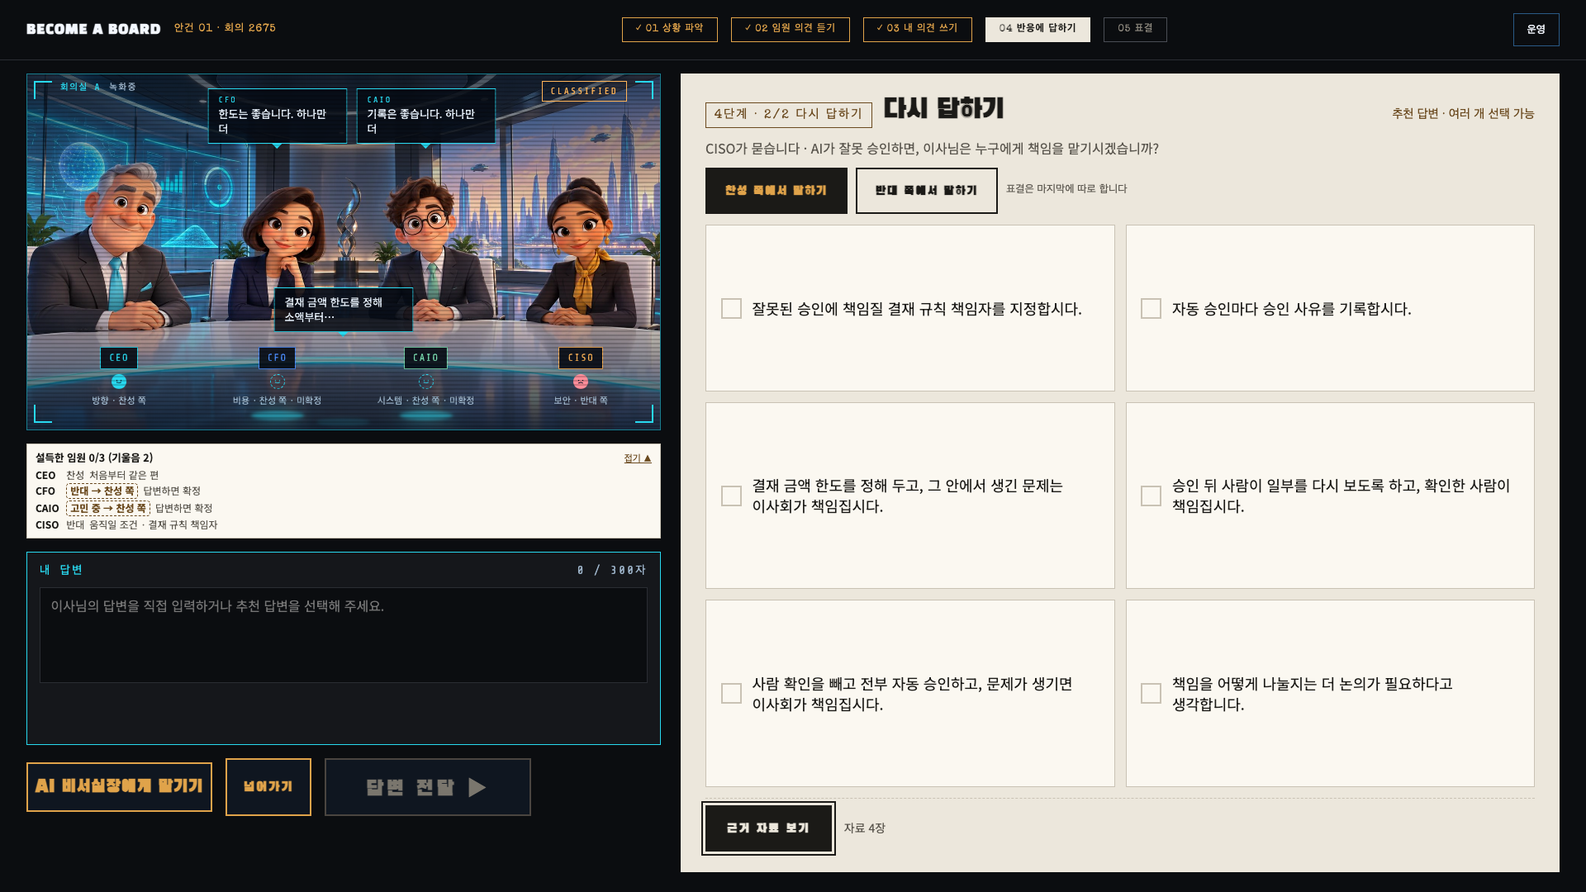
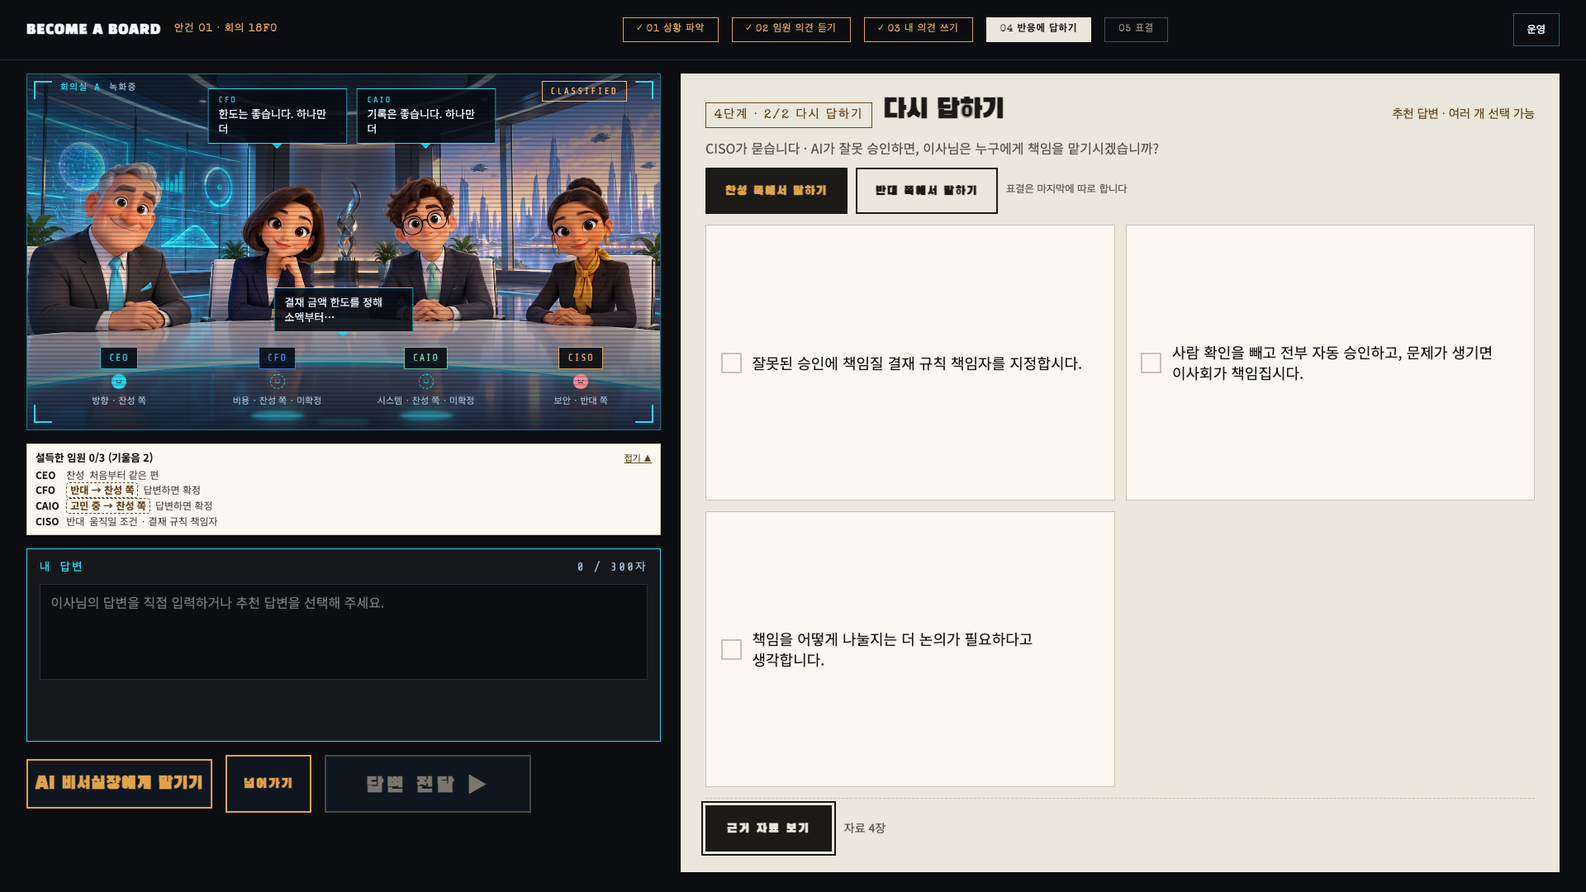
T120: 답변 뒤 마지막 반응 전부 가림 + 반응 답하기 추천 답변 중복 제외
- 회의록: MOTION·VOTE에서 FOLLOWUP 발언 본문을 방향 단어 유무와 무관하게 '(답변을 들었습니다 · 결과에서 공개)'로 가림, RESULT 순차 공개 뒤 원문
- 반응에 답하기: 첫 의견에서 고른 문구와 텍스트가 같거나(같은 입장이면) 같은 조건을 제안하는 추천 답변 숨김, 비서실장 안내는 첫 의견 문구를 가리킴
- 단위·커버리지 불변식·문서(DESIGN_SPEC T120, FACILITATOR_GUIDE, TASKS)·스크린샷 갱신

diff --git a/src/components/screens/ReactionsScreen.tsx b/src/components/screens/ReactionsScreen.tsx
@@ -71,6 +71,7 @@
 // 앞에서 pendingOptionIndex !== null이면 바로 멈추고, PhraseCard에도 disabled를
 // 넘겨 시각적으로도 잠근다.
 
+import { duplicateFollowUpOptionIndexes } from '../followUpDuplicates';
 import { useCallback, useEffect, useMemo, useRef, useState } from 'react';
 import type { ExecMemberId, Scenario } from '../../content/types';
 import type { Opinion, RoleStatus, Stance, Statement } from '../../domain/types';
@@ -504,6 +505,25 @@ export function ReactionsScreen({
       : '이미 쓴 내용의 조건입니다';
   }
 
+  // T120: 첫 의견에서 이미 낸 문구(와 같은 조건)를 제안하는 추천 답변은 보이지 않는다.
+  const duplicateOptionIndexes = useMemo(
+    () => duplicateFollowUpOptionIndexes(scenario, lastOpinion, side),
+    [scenario, lastOpinion, side],
+  );
+  // T120: 그 조건을 제안하는 보이는 추천 답변이 없고 전부 첫 의견과 겹쳐 숨겨진 경우 — 안내는
+  // 숨긴 카드가 아니라 첫 의견에서 이미 고른 문구를 가리킨다.
+  function isHiddenOnlyCondition(conditionId: string): boolean {
+    const offering = scenario.followUp.options
+      .map((option, index) => ({ option, index }))
+      .filter(
+        ({ option }) =>
+          option.proposeConditionId === conditionId &&
+          !option.keepPrevious &&
+          ((option.side ?? 'FOR') === 'BOTH' || (option.side ?? 'FOR') === guideSide),
+      );
+    return offering.length > 0 && offering.every(({ index }) => duplicateOptionIndexes.has(index));
+  }
+
   function isReleasedCondition(conditionId: string): boolean {
     return proposedConditionIds.includes(conditionId) && !acceptedConditionIds.includes(conditionId);
   }
@@ -512,12 +532,14 @@ export function ReactionsScreen({
       hint: (id: string) =>
         isReleasedCondition(id)
           ? releasedHint(releasedSourceText(id))
-          : conditionSourceHint(scenario, id, guideSide, 'REACTIONS'),
+          : isHiddenOnlyCondition(id)
+            ? releasedSourceText(id)
+            : conditionSourceHint(scenario, id, guideSide, 'REACTIONS'),
       offered: (id: string) => isConditionOffered(scenario, id, guideSide),
       later: (id: string) => !isReleasedCondition(id) && isLaterStageOnly(scenario, id, guideSide, 'REACTIONS'),
     }),
     // eslint-disable-next-line react-hooks/exhaustive-deps
-    [scenario, guideSide, proposedConditionIds, acceptedConditionIds, selectedOptionIds, lastOpinion],
+    [scenario, guideSide, proposedConditionIds, acceptedConditionIds, selectedOptionIds, lastOpinion, duplicateOptionIndexes],
   );
 
   function canApplyRecommendation(conditionId: string): boolean {
@@ -677,9 +699,9 @@ export function ReactionsScreen({
     hasAnswer: textValue.trim() !== '',
     canSubmit,
   });
-  const firstOptionIndex = scenario.followUp.options.findIndex((option) => {
+  const firstOptionIndex = scenario.followUp.options.findIndex((option, index) => {
     const optionSide = option.side ?? 'FOR';
-    return !option.keepPrevious && (optionSide === 'BOTH' || optionSide === side);
+    return !option.keepPrevious && !duplicateOptionIndexes.has(index) && (optionSide === 'BOTH' || optionSide === side);
   });
 
   if (step === 'listen') {
@@ -1003,10 +1025,11 @@ export function ReactionsScreen({
                 if (optionSide !== 'BOTH' && optionSide !== side) {
                   return null;
                 }
-                // 이미 확정된 조건을 다시 제안하는 카드도 그대로 보여 준다(T89 리드 확인 —
-                // 숨기면 찬성 쪽 카드가 1~2장만 남아 빈 그리드가 된다; 다시 골라도 조건 칩은
-                // "기존 확정"으로 표시될 뿐 새 조건이 생기지 않아 무해하다). T84 #23의
-                // "(앞서 제안함)" 잠금 표시는 쓰지 않는다.
+                // T120: 첫 의견에서 이미 낸 문구·조건과 겹치는 카드는 숨긴다(T89의 "겹쳐도
+                // 보여 준다"를 대체 — 사용자 지시 "이미 의견을 낸 문구는 더 이상 보여 주지 않아도 돼").
+                if (duplicateOptionIndexes.has(index)) {
+                  return null;
+                }
                 return (
                   <PhraseCard
                     key={index}
@@ -1020,6 +1043,11 @@ export function ReactionsScreen({
                 );
               })}
               </div>
+              {firstOptionIndex === -1 && (
+                <p className="side-select__guide" data-testid="reactions-options-empty">
+                  첫 의견에서 추천 문구를 이미 모두 냈습니다. 새로 덧붙일 말은 직접 써 주세요.
+                </p>
+              )}
             </>
           )}
           <div className="discuss-screen__evidence-row">

diff --git a/tests/content/conditionCoverage.test.ts b/tests/content/conditionCoverage.test.ts
@@ -10,6 +10,7 @@ import { aiApprovalScenario } from '../../src/content/scenarios/aiApproval';
 import { experienceFirstScenario } from '../../src/content/scenarios/experienceFirst';
 import type { ExecMemberId, Predicate, Scenario } from '../../src/content/types';
 import { proposeFromText } from '../../src/domain/conditions';
+import { duplicateFollowUpOptionIndexes } from '../../src/components/followUpDuplicates';
 
 type Stance = 'FOR' | 'AGAINST';
 
@@ -89,6 +90,51 @@ describe.each(scenarios)('T119 조건 커버리지 — %s', (_name, scenario) =>
     it('(b2) 첫 단계에서 빠지는 조건에는 후속 질문이 묻는 조건이 들어 있다', () => {
       const asked = ASKED_CONDITION[scenario.id]?.[stance];
       if (asked) expect(missingFirst).toContain(asked);
+    });
+  });
+
+  // T120: 첫 의견에서 고른 문구 집합 S에 대해, 2/2에 보이는 카드 ∪ S의 조건 = 규칙표 조건 전부.
+  // 숨긴 카드의 조건은 반드시 S가 이미 제안한 조건이다(같은 입장일 때; 입장 전환 시에는 텍스트가 같은 카드만 숨긴다).
+  describe.each<Stance>(['FOR', 'AGAINST'])('(e) T120 중복 제외 후에도 조건이 모두 도달한다 — 입장 %s', (stance) => {
+    const sidePhrases = scenario.phrases.filter((p) => {
+      const side = p.side ?? 'FOR';
+      return side === 'BOTH' || side === stance;
+    });
+    const selections: string[][] = [
+      [],
+      ...sidePhrases.map((p) => [p.id]),
+      sidePhrases.map((p) => p.id),
+    ];
+    for (const selected of selections) {
+      it(`첫 의견 문구 [${selected.join(',') || '없음'}]`, () => {
+        const hidden = duplicateFollowUpOptionIndexes(scenario, { selectedPhraseIds: selected, stance }, stance);
+        const fromSelected = new Set(
+          scenario.phrases.filter((p) => selected.includes(p.id) && p.conditionId).map((p) => p.conditionId as string),
+        );
+        const visible = new Set<string>();
+        scenario.followUp.options.forEach((option, index) => {
+          const side = option.side ?? 'FOR';
+          if (option.keepPrevious || hidden.has(index) || !option.proposeConditionId) return;
+          if (side === 'BOTH' || side === stance) visible.add(option.proposeConditionId);
+        });
+        const unreachable = required.filter((id) => !visible.has(id) && !fromSelected.has(id));
+        expect(unreachable).toEqual([]);
+        // 숨긴 카드의 조건은 S가 이미 제안한 조건이거나, 텍스트가 같은 카드다.
+        for (const index of hidden) {
+          const option = scenario.followUp.options[index]!;
+          const sameText = scenario.phrases.some((p) => selected.includes(p.id) && p.text.trim() === option.text.trim());
+          expect(sameText || (option.proposeConditionId !== null && fromSelected.has(option.proposeConditionId))).toBe(true);
+        }
+      });
+    }
+    it('입장을 바꾸면 조건이 같다는 이유로는 숨기지 않는다', () => {
+      const other: Stance = stance === 'FOR' ? 'AGAINST' : 'FOR';
+      const selected = sidePhrases.map((p) => p.id);
+      const hidden = duplicateFollowUpOptionIndexes(scenario, { selectedPhraseIds: selected, stance }, other);
+      const texts = new Set(scenario.phrases.filter((p) => selected.includes(p.id)).map((p) => p.text.trim()));
+      for (const index of hidden) {
+        expect(texts.has(scenario.followUp.options[index]!.text.trim())).toBe(true);
+      }
     });
   });
 

diff --git a/tests/components/ReactionsScreen.test.tsx b/tests/components/ReactionsScreen.test.tsx
@@ -993,5 +993,71 @@ describe('ReactionsScreen 기울어진 방향(T118)', () => {
     expect(calls[calls.length - 1]?.leaning).toEqual({});
     expect(calls[calls.length - 1]?.stances.CAIO).toBe('AGAINST');
   });
+
+  describe('추천 답변 중복 제외(T120)', () => {
+    const ai = aiApprovalScenario;
+    const aiStances: Record<ExecMemberId, Stance> = { CEO: 'FOR', CFO: 'UNDECIDED', CAIO: 'UNDECIDED', CISO: 'UNDECIDED' };
+    function renderAi(side: 'FOR' | 'AGAINST', stance: 'FOR' | 'AGAINST', selectedPhraseIds: string[]) {
+      const opinions: Opinion[] = [
+        { id: 'o1', originalText: '첫 의견', selectedPhraseIds, confirmedConditionIds: [], stance, createdAt: 0 },
+      ];
+      render(
+        <ReactionsScreen
+          {...baseProps()}
+          scenario={ai}
+          opinions={opinions}
+          side={side}
+          mode="scripted"
+          roleStatus={idleRoleStatus}
+          statements={[]}
+          roundLog={[]}
+          stances={aiStances}
+        />,
+      );
+    }
+    function visibleOptionTexts(): string[] {
+      return ai.followUp.options
+        .map((option, index) => ({ option, index }))
+        .filter(({ index }) => screen.queryByTestId(`followup-option-${index}`) !== null)
+        .map(({ option }) => option.text);
+    }
+
+    it('첫 의견에서 고른 문구와 같은 조건을 제안하는 추천 답변은 보이지 않는다', () => {
+      const withoutPick = (() => {
+        renderAi('FOR', 'FOR', []);
+        const texts = visibleOptionTexts();
+        cleanup();
+        return texts;
+      })();
+      renderAi('FOR', 'FOR', ['P1']); // LIMIT
+      const texts = visibleOptionTexts();
+      const limitOptions = ai.followUp.options.filter((o) => o.proposeConditionId === 'LIMIT' && (o.side ?? 'FOR') === 'FOR');
+      expect(limitOptions.length).toBeGreaterThan(0);
+      for (const option of limitOptions) {
+        expect(withoutPick).toContain(option.text);
+        expect(texts).not.toContain(option.text);
+      }
+      expect(texts.length).toBe(withoutPick.length - limitOptions.length);
+    });
+
+    it('입장을 바꾸면 조건이 같다는 이유로는 숨기지 않는다', () => {
+      renderAi('AGAINST', 'FOR', ['P1']);
+      const againstLimit = ai.followUp.options.filter(
+        (o) => o.proposeConditionId === 'LIMIT' && (o.side ?? 'FOR') === 'AGAINST',
+      );
+      expect(againstLimit.length).toBeGreaterThan(0);
+      for (const option of againstLimit) {
+        expect(visibleOptionTexts()).toContain(option.text);
+      }
+    });
+
+    it('고른 문구가 없으면 아무것도 숨기지 않는다', () => {
+      renderAi('FOR', 'FOR', []);
+      const forOptions = ai.followUp.options.filter(
+        (o) => !o.keepPrevious && ((o.side ?? 'FOR') === 'FOR' || o.side === 'BOTH'),
+      );
+      expect(visibleOptionTexts().length).toBe(forOptions.length);
+    });
+  });
 });
 

diff --git a/tests/components/resultReveal.test.tsx b/tests/components/resultReveal.test.tsx
@@ -215,11 +215,15 @@ describe('FOLLOWUP 발언 회의록(T114)', () => {
     }));
     const entries = buildMinutes(session, scenario, roundLog);
     render(<MinutesPanel entries={entries} />);
+    // T120: MOTION에서는 방향 단어가 없어도 본문 전체를 가린다.
     for (const roleId of ['CEO', 'CFO', 'CAIO', 'CISO']) {
       const row = screen.getByTestId(`minutes-entry-followup-${roleId}`);
-      expect(row).toHaveTextContent('답변을 잘 들었습니다');
-      expect(row.textContent).not.toMatch(/찬성 쪽|반대 쪽|고민 중|FOR|AGAINST/);
+      expect(row).toHaveTextContent(SEALED_FOLLOWUP_TEXT);
+      expect(row.textContent).not.toMatch(/답변을 잘 들었습니다|근거가 분명|FOR|AGAINST/);
     }
+    // RESULT 이후에는 원문이고 입장 라벨은 붙지 않는다.
+    render(<MinutesPanel entries={buildMinutes({ ...session, stage: 'RESULT' }, scenario, roundLog)} />);
+    expect(screen.getAllByTestId('minutes-entry-followup-CEO').at(-1)).toHaveTextContent('답변을 잘 들었습니다');
   });
 
   function liveFollowUpSession(texts: Record<string, string>): { session: Session; roundLog: RoundLogEntry[] } {
@@ -253,14 +257,15 @@ describe('FOLLOWUP 발언 회의록(T114)', () => {
     };
   }
 
-  it('모델이 규칙을 어겨 방향 단어를 쓰면 MOTION·VOTE 회의록은 그 행만 가린다', () => {
+  it('MOTION·VOTE 회의록은 방향 단어 유무와 무관하게 임원 4명 FOLLOWUP 행을 모두 가린다(T120)', () => {
     const { session, roundLog } = liveFollowUpSession({ CFO: '이번에는 찬성합니다.', CISO: '반대로 남겠습니다.' });
     for (const stage of ['MOTION', 'VOTE'] as const) {
       const entries = buildMinutes({ ...session, stage }, scenario, roundLog);
       const byId = (id: string) => entries.find((entry) => entry.id === id)?.text;
       expect(byId('followup-CFO')).toBe(SEALED_FOLLOWUP_TEXT);
       expect(byId('followup-CISO')).toBe(SEALED_FOLLOWUP_TEXT);
-      expect(byId('followup-CEO')).toBe('답변을 잘 들었습니다.');
+      expect(byId('followup-CEO')).toBe(SEALED_FOLLOWUP_TEXT);
+      expect(byId('followup-CAIO')).toBe(SEALED_FOLLOWUP_TEXT);
     }
   });
 

diff --git a/src/components/followUpDuplicates.ts b/src/components/followUpDuplicates.ts
@@ -1,0 +1,44 @@
+// T120: 반응에 답하기(REACTIONS 2/2)의 추천 답변에서 첫 의견에 이미 낸 내용과 겹치는 카드를
+// 가린다. 규칙은 화면이 아니라 여기에 둔다.
+//  - 첫 의견에서 고른 추천 문구와 텍스트가 같은 카드는 입장과 무관하게 숨긴다.
+//  - 첫 의견에서 고른 추천 문구가 제안한 조건과 같은 조건을 제안하는 카드는, 지금 고른 입장이
+//    첫 의견 입장과 같을 때만 숨긴다(입장을 바꾸면 다른 입장의 문구라 중복이 아니다).
+// 숨긴 카드의 조건은 첫 의견에서 이미 제안됐으므로 조건 도달 범위(T119)는 줄지 않는다.
+
+import type { Scenario } from '../content/types';
+
+export interface FirstOpinionRef {
+  selectedPhraseIds: readonly string[];
+  stance?: 'FOR' | 'AGAINST' | null;
+}
+
+/** 숨겨야 하는 followUp.options 인덱스 집합. */
+export function duplicateFollowUpOptionIndexes(
+  scenario: Scenario,
+  firstOpinion: FirstOpinionRef | null,
+  currentSide: 'FOR' | 'AGAINST' | null,
+): Set<number> {
+  const hidden = new Set<number>();
+  if (!firstOpinion || firstOpinion.selectedPhraseIds.length === 0) {
+    return hidden;
+  }
+  const picked = scenario.phrases.filter((phrase) => firstOpinion.selectedPhraseIds.includes(phrase.id));
+  const pickedTexts = new Set(picked.map((phrase) => phrase.text.trim()));
+  const pickedConditionIds = new Set(
+    picked.map((phrase) => phrase.conditionId).filter((id): id is string => id !== null),
+  );
+  const sameSide = currentSide !== null && (firstOpinion.stance ?? 'FOR') === currentSide;
+  scenario.followUp.options.forEach((option, index) => {
+    if (option.keepPrevious) {
+      return;
+    }
+    if (pickedTexts.has(option.text.trim())) {
+      hidden.add(index);
+      return;
+    }
+    if (sameSide && option.proposeConditionId !== null && pickedConditionIds.has(option.proposeConditionId)) {
+      hidden.add(index);
+    }
+  });
+  return hidden;
+}

diff --git a/src/components/minutes.ts b/src/components/minutes.ts
@@ -7,7 +7,7 @@
 import type { ExecMemberId, Reaction, Scenario } from '../content/types';
 import type { MemberId, RoleStatus, Session, SessionStage, StatementStage } from '../domain/types';
 import { EXEC_MEMBER_ORDER } from '../domain/voting';
-import { SEALED_FOLLOWUP_TEXT, findVerdictWords } from '../domain/verdictWords';
+import { SEALED_FOLLOWUP_TEXT } from '../domain/verdictWords';
 import { membersAwaitingAnswer } from '../domain/stance';
 import { reactionBodyText, reactionsFor, oppositionReactionText, resolveFollowUpPrompt } from './reactionsFor';
 import { chairMotionLine } from './chairMotionLine';
@@ -156,7 +156,7 @@ export function buildMinutes(
   scenario: Scenario,
   roundLog: RoundLogEntry[],
   options: {
-    /** T114: FOLLOWUP 발언에 방향 단어가 있으면 본문을 가린다. 생략하면 MOTION·VOTE에서만
+    /** T114·T120: FOLLOWUP 발언(답변 뒤 마지막 반응) 본문을 방향 단어 유무와 무관하게 전부 가린다. 생략하면 MOTION·VOTE에서만
      * 가리고 RESULT 이후에는 원문을 보여 준다(결과 화면의 순차 공개 전에는 호출부가 true). */
     sealFollowUp?: boolean;
   } = {},
@@ -286,7 +286,7 @@ export function buildMinutes(
         entries.push({
           id: `followup-${result.roleId}`,
           speaker: result.roleId,
-          text: sealFollowUp && findVerdictWords(result.text).length > 0 ? SEALED_FOLLOWUP_TEXT : result.text,
+          text: sealFollowUp && result.kind === 'speech' ? SEALED_FOLLOWUP_TEXT : result.text,
           kind: result.kind,
           timeLabel: formatElapsed(startedAt, result.createdAt),
         });

diff --git a/docs/design/DESIGN_SPEC.md b/docs/design/DESIGN_SPEC.md
@@ -1166,3 +1166,28 @@ MOTION·다시 답하기(REACTIONS 2/2)·ATTRACT·INTRO·SELECT에는 안내가 
 **화면 크기**: 최악 경우 추가 답변은 찬성 6장·반대 7장(공통 답변 포함)이다. 2열 그리드가 1280×720에서 3~4줄로 들어가 문서 스크롤·잘림이 없음을 `e2e/noscroll.spec.ts`(안건 × 입장 4가지, 조건 0개로 넘어온 경우)로 확인한다. 카드 높이·열 수는 바꾸지 않았다.
 
 **비서실장 안내**: 조건 추천 행과 "남은 확인 사항"에 "붙이는 곳"을 함께 보인다. 내 의견 화면에서는 "추천 문구 N번에서 고를 수 있습니다"(N은 그 입장에서 보이는 문구의 순서이며 카드 앞 번호와 같다), 첫 문구에 없으면 "다음 단계 추가 답변에서 고를 수 있습니다". 반응 답하기 화면에서는 "추가 답변에서 고를 수 있습니다". 추천 문구·추가 답변 어디에도 없는 조건은 추천 행과 남은 확인 사항에서 뺀다(불변식 덕에 보통 없다, 방어용). "처음 안과의 차이"는 이미 붙은 조건이라 안내를 붙이지 않는다. 구현은 `src/components/conditionSource.ts`.
+
+## T120 — 답변 뒤 마지막 반응 가림 + 추천 답변 중복 제외 (2026-10-11)
+
+**사용자 지시**: 첫 의견을 전달했을 때 임원 반응은 보이되, 그 반응에 답한 뒤의 마지막(표결 전) 반응만 볼 수 없게 한다. 반응에 답하기에서는 첫 의견에서 이미 낸 추천 문구를 더 보여 주지 않는다.
+
+**노출 경로 조사(답변 뒤 FOLLOWUP 발언·2차 반응 본문이 보일 수 있는 곳)**
+
+| 경로 | 결과 |
+|---|---|
+| 회의록(`buildMinutes`의 `followup-*` 행, live) | 기존에는 방향 단어가 있는 행만 가렸다. T120부터 MOTION·VOTE에서 본문 전부를 '(답변을 들었습니다 · 결과에서 공개)'로 바꾼다. 판단 중·응답 없음 행은 그대로. |
+| 결과 화면 회의 기록 전문 | 기존 순차 공개(T114)가 끝나기 전(`sealFollowUp: !allRevealed`)에는 가리고, 끝나면 원문. 타이밍은 바꾸지 않았다. |
+| 무대 말풍선(StageBand) | 말풍선은 OPINIONS·REACTIONS 발언만 읽고 MOTION·VOTE는 의장 안건 문장만 쓴다. FOLLOWUP 본문 경로 없음. |
+| 발언 카드(LiveStatementCards) | OPINIONS·REACTIONS 화면에서만 쓰인다. MOTION·VOTE에는 카드가 없다. |
+| 설득 현황판·임원 입장 목록 | 이미 봉인(T114). 발언 본문이 아니라 입장·조건만 쓴다. |
+| scripted 2차 반응 | 회의록·화면 어디에도 본문이 나오지 않는다(scripted 회의록은 후속 질문과 내 답까지만). |
+
+서버 verdictWords 교정과 프롬프트는 그대로 둔다(방어 계층 유지). 첫 의견 뒤 반응(OPINIONS·REACTIONS, T118 기울어진 방향 표시)은 그대로 보인다.
+
+**추천 답변 중복 제외**: `src/components/followUpDuplicates.ts`가 숨길 카드를 정한다.
+- 첫 의견에서 고른 추천 문구와 **텍스트가 같은** 카드는 입장과 무관하게 숨긴다.
+- 첫 의견에서 고른 문구가 제안한 조건과 **같은 조건을 제안하는** 카드는, 지금 고른 입장이 첫 의견 입장과 같을 때만 숨긴다. 입장을 바꾸면 다른 입장의 문구라 중복이 아니다.
+- 고른 문구가 없으면 아무것도 숨기지 않는다. 모두 숨겨지면 "첫 의견에서 추천 문구를 이미 모두 냈습니다. 새로 덧붙일 말은 직접 써 주세요."를 보인다.
+- T89의 "겹쳐도 그대로 보인다"는 이 규칙으로 대체된다.
+- 비서실장 안내: 보이는 카드가 하나도 없는 조건은 숨긴 카드를 가리키지 않고 "이미 고른 문구 N번(첫 의견)의 조건입니다"로 안내한다.
+- 불변식(T119 확장, `tests/content/conditionCoverage.test.ts`): 첫 의견에서 고른 문구 집합 S에 대해 2/2에 보이는 카드의 조건 ∪ S의 조건이 규칙표 조건 전부를 덮는다.

diff --git a/docs/TASKS.md b/docs/TASKS.md
@@ -11,7 +11,7 @@
 | 작업 | 상태 | 비고 |
 | --- | --- | --- |
 | T110 | 완료 | 난이도 조절 — 첫 의견(추천 문구)만으로 전원 설득되지 않게(2026-10-09 사용자 지시): 1차 반응은 조건이 맞아도 '고민 중'까지만, 추가 질문에 답(`session.followUpAnswered`)해야 찬성, 답하지 않고 넘어가면 표결에서 반대(반대 참가자는 대칭). scripted(`VoteContext.followUpAnswered`·`reactions[].pendingText`)와 live(프롬프트 v12) 모두. 상세는 아래 T110 카드와 DESIGN_SPEC T110 |
-| T120 | 진행 중 | ① 답변 뒤 임원의 마지막 반응(FOLLOWUP 발언)은 표결 전(MOTION·VOTE) **전부 가림**(첫 의견 뒤 반응은 그대로 보임), RESULT에서 공개 ② 반응에 답하기 추천 답변에서 **첫 의견에 이미 낸 문구는 제외**(2026-10-11 사용자 지시). 상세는 아래 T120 카드 |
+| T120 | 완료 | ① 답변 뒤 임원의 마지막 반응(FOLLOWUP 발언)은 표결 전(MOTION·VOTE) **전부 가림**(첫 의견 뒤 반응은 그대로 보임), RESULT에서 공개 ② 반응에 답하기 추천 답변에서 **첫 의견에 이미 낸 문구는 제외**(2026-10-11 사용자 지시). 상세는 아래 T120 카드 |
 | T119 | 완료 | 조건은 **직접 작성 없이** 추천 문구·추천 답변만으로 모두 붙일 수 있게: 첫 추천 문구는 조건 1~2개를 일부러 비우고, 추가 답변 단계의 추천 답변이 남은 조건을 전부 커버(조건 비교·조건 추천도 도달 가능한 조건만 안내)(2026-10-10 사용자 지시). 상세는 아래 T119 카드 |
 | T118 | 완료 | 첫 의견 전달 뒤(반응 듣기·답하기)에는 임원이 **어느 쪽으로 기울었는지** 보이게('반대 → 찬성 쪽 · 답변하면 확정'), 봉인은 답변 뒤~표결 전(MOTION·VOTE)에만 유지(2026-10-10 사용자 지시). 상세는 아래 T118 카드 |
 | T117 | 완료 | 반응에 답하기(2/2) HUD: 버튼 잘림 재현·수정(여러 뷰포트), 내 발언 조건 칩을 **한 줄**에(2026-10-10 사용자 지시, T116 후속). 상세는 아래 T117 카드 |
